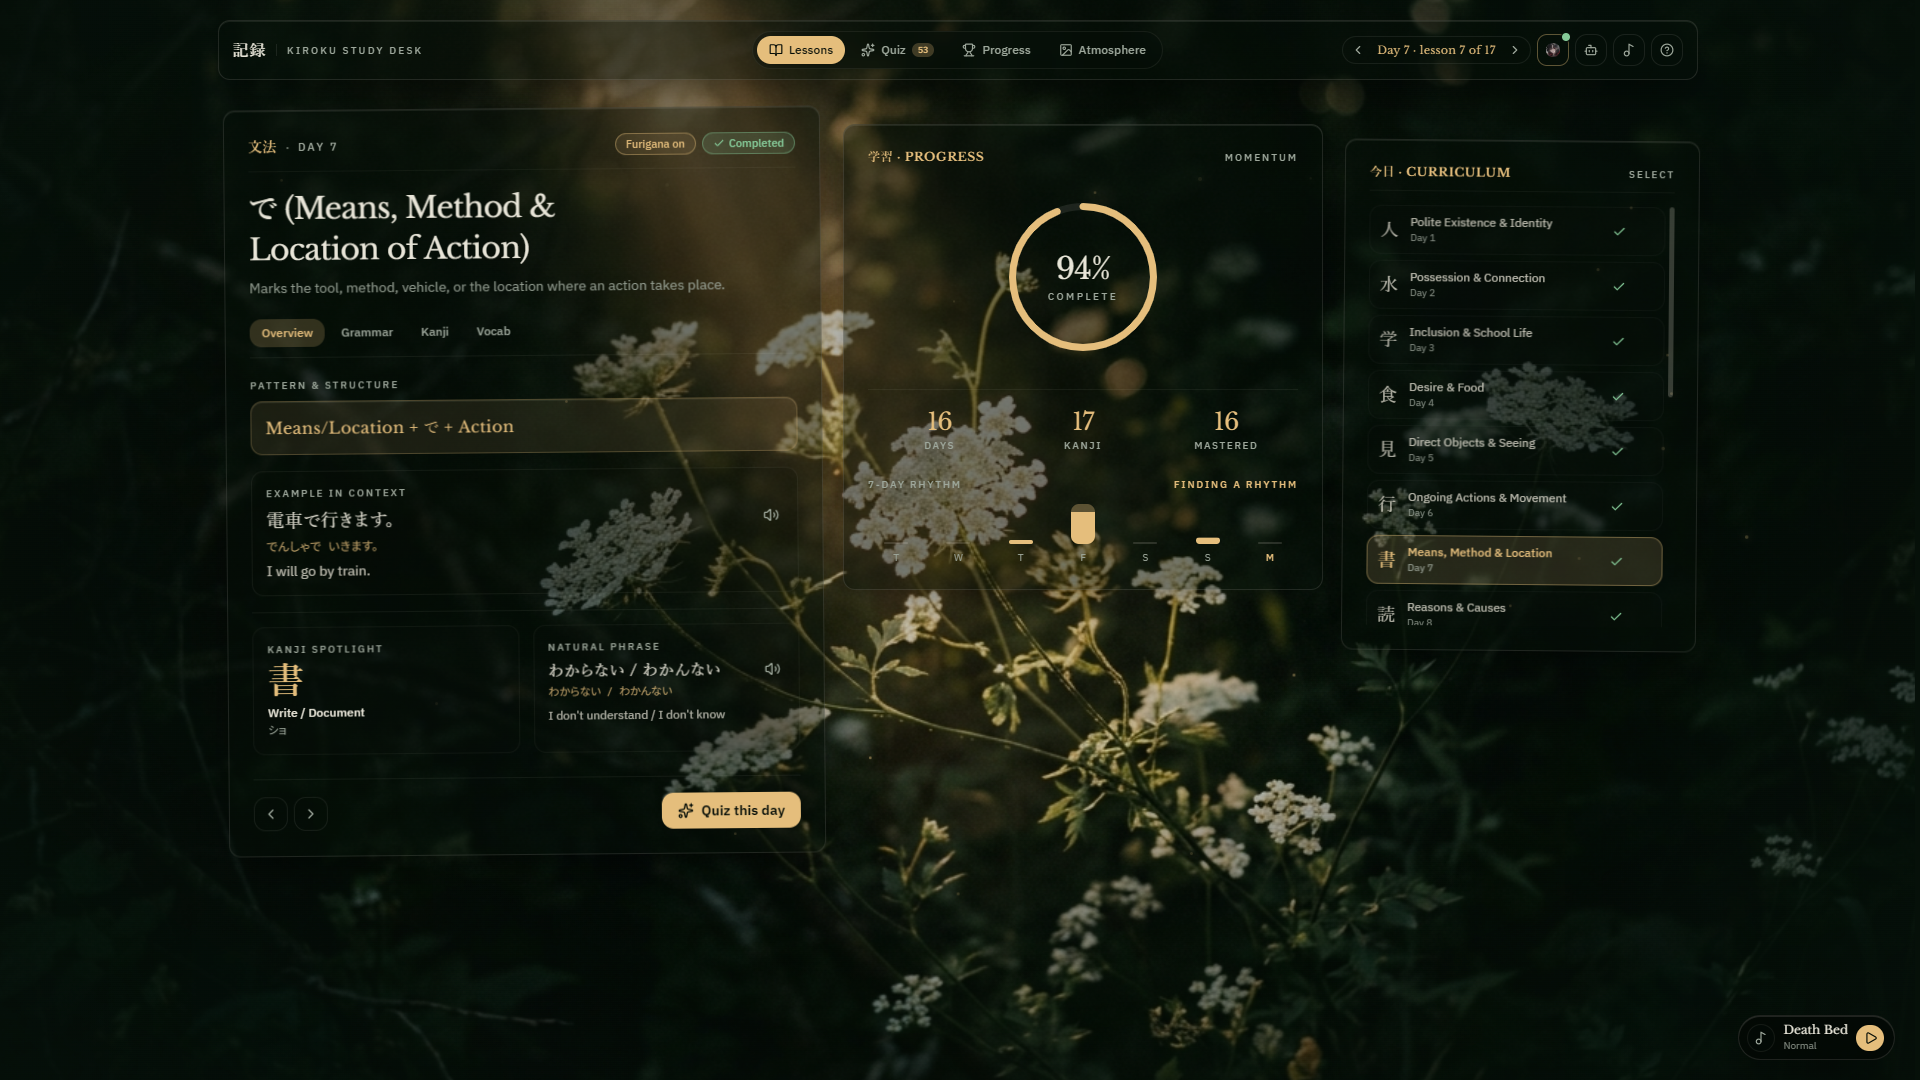
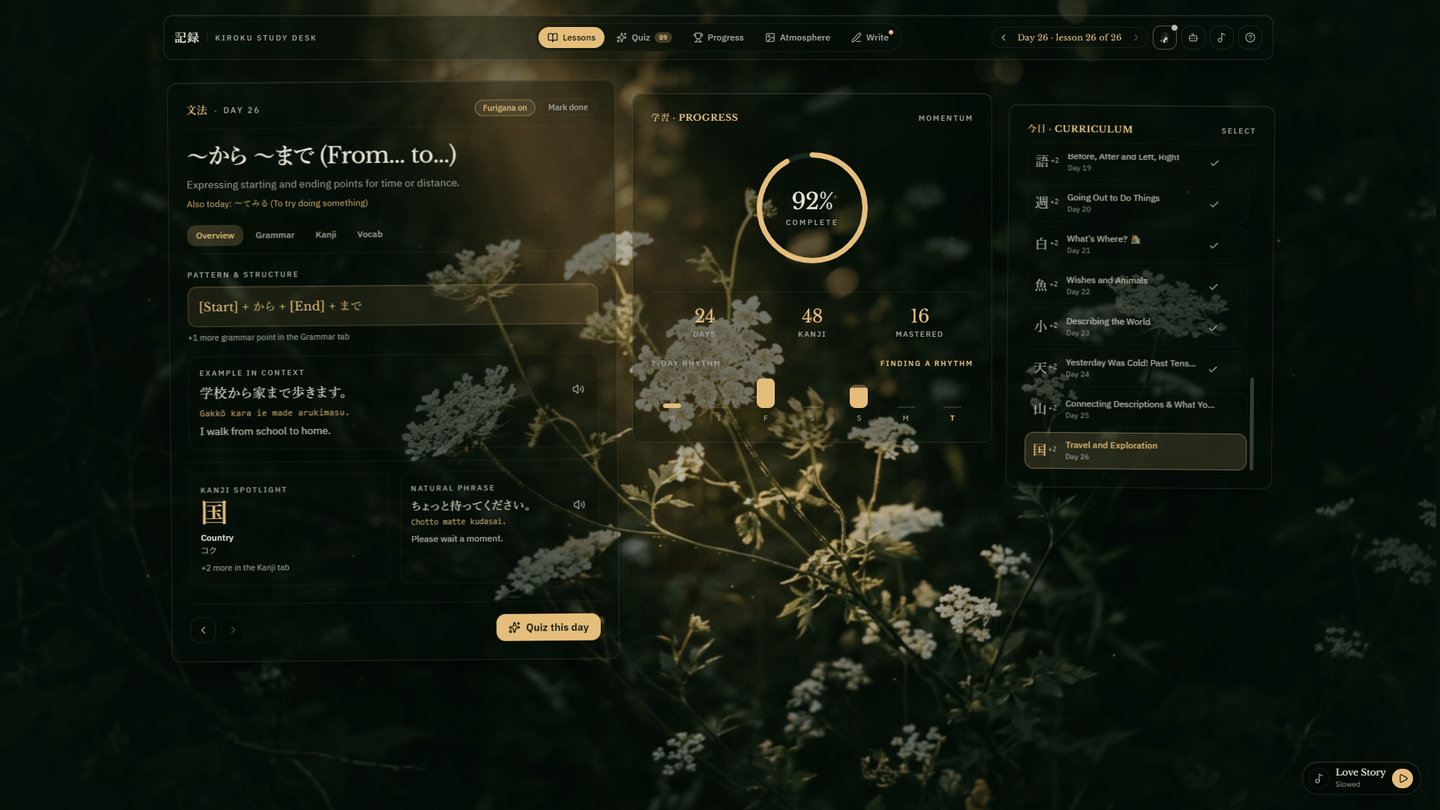
Updated Quest Files

diff --git a/src/lib/rewards.ts b/src/lib/rewards.ts
@@ -66,8 +66,8 @@ export function kanjiToNextRank(carved: number): number | null {
 }
 
 /**
- * The rank line, one sentence: `Rank 一行 First line · 5 more kanji to 一頁 One page`. Below the first rank:
- * `No rank yet · 3 more kanji to 一行 First line`. At the top: `Rank 書庫 Archive`.
+ * The rank line, one sentence: `Rank 一行 First line · 5 more carved kanji to 一頁 One page`. Below the first rank:
+ * `No rank yet · 3 more carved kanji to 一行 First line`. At the top: `Rank 書庫 Archive`.
  */
 export function rankText(carved: number): string {
   const rank = rankOf(carved);
@@ -75,7 +75,7 @@ export function rankText(carved: number): string {
   const here = rank === null ? "No rank yet" : `Rank ${rank.glyph} ${rank.name}`;
   if (next === null) return here;
   const left = Math.max(0, next.carved - carved);
-  return `${here} · ${left} more kanji to ${next.glyph} ${next.name}`;
+  return `${here} · ${left} more carved kanji to ${next.glyph} ${next.name}`;
 }
 
 // ---------------------------------------------------------------------------------------------

diff --git a/src/components/profile/BadgeShelf.tsx b/src/components/profile/BadgeShelf.tsx
@@ -25,8 +25,8 @@ function formatDay(day: string, today: string): string {
 }
 
 /**
- * `Rank 一行 First line · 5 more kanji to 一頁 One page`, with the one sentence that says what moves it. The glyphs
- * carry `lang="ja"`; below the first rank the line reads `No rank yet · 3 more kanji to 一行 First line`.
+ * `Rank 一行 First line · 5 more carved kanji to 一頁 One page`, with the one sentence that says what moves it. The glyphs
+ * carry `lang="ja"`; below the first rank the line reads `No rank yet · 3 more carved kanji to 一行 First line`.
  */
 export function RankLine({
   carved,
@@ -57,7 +57,7 @@ export function RankLine({
         {next !== null && (
           <span className="text-muted-foreground">
             {" "}
-            · {left} more kanji to{" "}
+            · {left} more carved kanji to{" "}
             <span lang="ja" className="text-foreground">
               {next.glyph}
             </span>{" "}

diff --git a/README.md b/README.md
@@ -4,9 +4,9 @@
 
 **GitHub →** [github.com/late-shine/Kiroku](https://github.com/late-shine/Kiroku) · **Live app →** [usekiroku.vercel.app](https://usekiroku.vercel.app/)
 
-**Status:** Active personal project. Everything under [What it does](#what-it-does) is built. Most of it has been tried in the real running app; the newest piece, targeted reinforcement, is still being observed through normal daily study. What isn't built yet is in the [Roadmap](#roadmap).
+**Status:** Active personal project. The core lessons, quiz, writing practice, photo check, rewards, writing stats and cross-device writing sync are built. The newest photo-check behavior is still being observed through normal daily study. Remaining ideas are in the [Roadmap](#roadmap).
 
-![A saved Kiroku lesson: grammar point, progress ring and the curriculum list](src/assets/images/welcome-lesson.webp)
+![A Kiroku lesson: grammar point, progress ring and the curriculum list](README_images/lesson-overview.png)
 
 If you know a little Japanese: 記録 (*kiroku*) means "record." That wasn't a branding decision — it's just what the app is. (It was called Komorebi, 木漏れ日, until the rebrand on September 30.) It doesn't correct your grammar or grade your speaking. It remembers.
 
@@ -60,7 +60,7 @@ There are three modes:
 
 No account or API key is required for any of this. Manual copy and paste is the permanent default.
 
-**Optional accounts and sync.** Kiroku is local-first, but you can optionally sign in with Google and sync across devices when Firebase is configured. The first sync offers **Merge**, **Use my account's data** or **Use this device's data**; after that, automatic sync runs on app start, when the tab regains focus, when the connection returns and after local changes. **Sync now** and **Choose how to sync…** remain available. Sync includes lessons, completed days, stars and weak-word state, review memory, quiz counters, the 7-day study log, your name and avatar, and selected display preferences. The Gemini key, music, active quiz state, voice choice and particle setting stay on the device. Deleting or replacing a day is announced to your other devices, so old state can't sneak back in. Restoring a backup adds to the account; it does not delete account-only days.
+**Optional accounts and sync.** Kiroku is local-first, but you can optionally sign in with Google and sync across devices when Firebase is configured. The first sync offers **Merge**, **Use my account's data** or **Use this device's data**; after that, automatic sync runs on app start, when the tab regains focus, when the connection returns and after local changes. **Sync now** and **Choose how to sync…** remain available. Sync includes lessons, completed days, stars and weak-word state, review memory, quiz counters, the 7-day study log, writing records, the writing day log, earned badges, your name and avatar, and selected display preferences. Writing preferences, drafts, stamps, accent choice, photo-check counters, the Gemini key, music, active quiz state, voice choice and particle setting stay on the device. Deleting or replacing a day is announced to your other devices, so old state can't sneak back in. Restoring a backup adds to the account; it does not delete account-only days.
 
 **Optional Gemini help.** If you add your own Gemini API key, two buttons appear: *Fix with Gemini* repairs a reply that failed the check, and *Save with Gemini* does the Save-only step for you from pasted lesson text. Free-tier models are often busy, so Kiroku tries a chain of five in turn (45 seconds each) and shows you the trail. The result still goes through the same preview before anything is saved.
 
@@ -69,6 +69,20 @@ No account or API key is required for any of this. Manual copy and paste is the 
 Each day has grammar, kanji, vocab, a natural phrase, a pattern and a culture corner — shown across Overview, Grammar, Kanji and Vocab tabs. A day can hold up to 3 grammar points and 5 kanji; when it has several, a row of chips switches between them. There's a furigana toggle, on'yomi and kun'yomi on every kanji, speaker buttons on kanji compounds, grammar examples and the natural phrase, and "Mark done" for finished days. On a phone, a small day stepper sits at the top of the lesson.
 
 You can delete a day or select several and delete them together. Day numbers never shift: delete Day 14 and the list reads 13, 15, the arrows skip the gap, and the stepper says things like "Day 15 · lesson 14 of 16". The dialog tells you that the day's review words go with it. If you rebuild a day that already exists, Kiroku asks first and clears that day's review and mastery records, so old progress can't attach to different words. If you pick a deleted day in the Studio, it warns you that the original lesson can't be recovered without a backup. A new visitor starts empty and sees a welcome panel that explains the loop, not a sample course.
+
+![Kiroku's Lesson Studio for building the next AI lesson](README_images/lesson-studio.png)
+
+### Writing practice
+
+Writing practice is optional and off by default. Turn it on in Profile and a **Write** tab appears. Each page gives you three kanji you can read but cannot yet write, with a short cue for each. Write them on paper from memory, reveal the answers, and mark yourself **right** or **not yet**. Your mark is the only one that counts. A kanji is *carved* once you get it right on two different days; missed ones come back first.
+
+![Kiroku's optional photo check for a handwritten page](README_images/writing-photo-check.png)
+
+If you add your own Gemini key in Profile, you can photograph the page for a second opinion. Ticks show where Gemini read the same answer you marked, and you can still override it. The photo goes to Google through Kiroku's relay for that one check, and Kiroku never keeps it.
+
+Pages earn a writing rank and badges, a rank stamp (Ink, Moss or Paper), and accent colours that unlock with badges. Once you have saved a page, the Write page also shows seven days of marks and your recent right, photo-checked and by-hand totals.
+
+![Kiroku's writing results and seven-day writing stats](README_images/writing-results.png)
 
 ### Quiz and review
 
@@ -86,11 +100,13 @@ Every answer updates a small record for that word. It's a Leitner system: five b
 
 The Progress tab shows your days, mastered words, answers and word count, plus a **7-day rhythm chart** drawn from a real per-day study log (right and wrong answers, today last; it starts filling from the first answer after it was added, because earlier days can't be reconstructed). Below it, a **Memory block** shows how many words sit in each of the five boxes and when the words in review come due: today, tomorrow, in 2–7 days, later. The word list has a search box and filters (All, Due, Weak, Mastered, Not in review) with counts, and each word shows its box and any Due or Weak mark.
 
+![Kiroku's Progress archive with rhythm and review memory](README_images/progress-archive.png)
+
 ### Profile and backup
 
 The avatar button in the header opens your Profile page: a name, an avatar (a Google photo, one of eight kanji glyphs — 記 猫 月 葉 花 星 蛍 苔 — or a picture you upload, shrunk to a tiny square in your browser first), an at-a-glance line (streak, due today, mastered), the account and sync controls, your data, preferences and a danger zone.
 
-**Export** saves `kiroku-backup.json` — versioned (currently v5), with your lessons, progress, review records (including the optional miss streak behind targeted reinforcement) and study log. **Restore** checks the file first, tells you what's in it, and asks before replacing anything; a damaged or too-new file is refused and changes nothing. Older backups from before versions still restore. Music settings, the voice choice, the particle setting and your Gemini key are never in the file. Resetting everything (you type "reset" to confirm) is in the Danger zone.
+**Export** saves `kiroku-backup.json` — versioned (currently v6), with your lessons, progress, writing records, writing day log, earned badges, review records (including the optional miss streak behind targeted reinforcement) and study log. **Restore** checks the file first, tells you what's in it, and asks before replacing anything; a damaged or too-new file is refused and changes nothing. Older backups from before versions still restore. Writing preferences, drafts, stamps, accent choice, photo-check counters, music settings, the voice choice, the particle setting and your Gemini key are never in the file. Resetting everything (you type "reset" to confirm) is in the Danger zone.
 
 ### Atmosphere, music and voice
 
@@ -107,7 +123,7 @@ Besides the welcome panel, there are small dismissible tip cards on the Quiz, Pr
 ## Your data and your key
 
 - **Local-first by default.** Without Firebase configuration, lessons and progress live in your browser's `localStorage`. Clear your browser data and they're gone, so export a backup now and then.
-- **Optional Firebase sync.** A signed-in account can sync lessons, progress, review memory, the 7-day study log, your name and avatar, and selected display preferences between devices. The Firebase web configuration is public by design; access is protected by `firebase/database.rules.json`, which must be published in the Firebase console.
+- **Optional Firebase sync.** A signed-in account can sync lessons, progress, review memory, the 7-day study log, writing records, the writing day log, earned badges, your name and avatar, and selected display preferences between devices. Writing preferences, drafts, stamps, accent choice, photo-check counters and the Gemini key are not backed up or synced. The Firebase web configuration is public by design; access is protected by `firebase/database.rules.json`, which must be published in the Firebase console.
 - **Your Gemini key (optional) stays in your browser.** The app's one server function relays each request to Google and is built not to store or log the key. The key is never part of a backup, and it's never in the code.
 
 ## Known limits
@@ -261,6 +277,8 @@ Push to GitHub and connect the repo to Vercel. `npm run build` uses Nitro's `ver
 
 For accounts and sync, add the same six `VITE_FIREBASE_*` variables from `.env.example` to the Vercel project's Environment Variables (Production, and Preview if wanted) before redeploying; Vite bakes them into the client build. Add the production domain to Firebase Authentication's authorized domains and publish the current `firebase/database.rules.json` in Realtime Database → Rules. Random Vercel preview URLs are not automatically authorized for Google sign-in. When a release changes `firebase/database.rules.json`, publish the new rules before any device runs the new build, then hard-refresh open tabs so an old cached one can't sync without the new fields. Targeted reinforcement is such a release: it adds the optional `memory/$id/streak` field and raises the sync schema to 2, so publish the current rules first. An older cached tab then refuses to sync until it's reloaded, rather than silently dropping the streaks.
 
+Writing sync is another rules-changing release: it adds `progress/writing`, `progress/writingLog` and `progress/badges` and raises the sync schema to 3. Older cached tabs refuse to sync until reloaded rather than silently dropping writing history.
+
 Vercel refuses to build versions of TanStack Start that have a known security advisory. Phase 15 hit exactly that. The fix is to upgrade `@tanstack/react-start`, `@tanstack/react-router` and `@tanstack/router-plugin` together, then re-run the checks.
 
 ---
@@ -285,6 +303,8 @@ Vercel refuses to build versions of TanStack Start that have a known security ad
 - [x] Several kanji and grammar points per day, with a Check step at the top of the prompt
 - [x] A real 7-day study chart and a Memory block with word filters in Progress
 - [x] Profile page with a synced name, avatar and uploaded picture
+- [x] Optional paper-based Writing practice with photo check, ranks, badges and writing stats
+- [x] Writing records, writing log and earned badges synced across devices
 - [x] Safe day deletion and replacement, on one device and across devices
 - [x] The Lesson Studio as a full page
 - [ ] Prompt that keeps the AI to the chosen JLPT level and says so when that level is already covered
